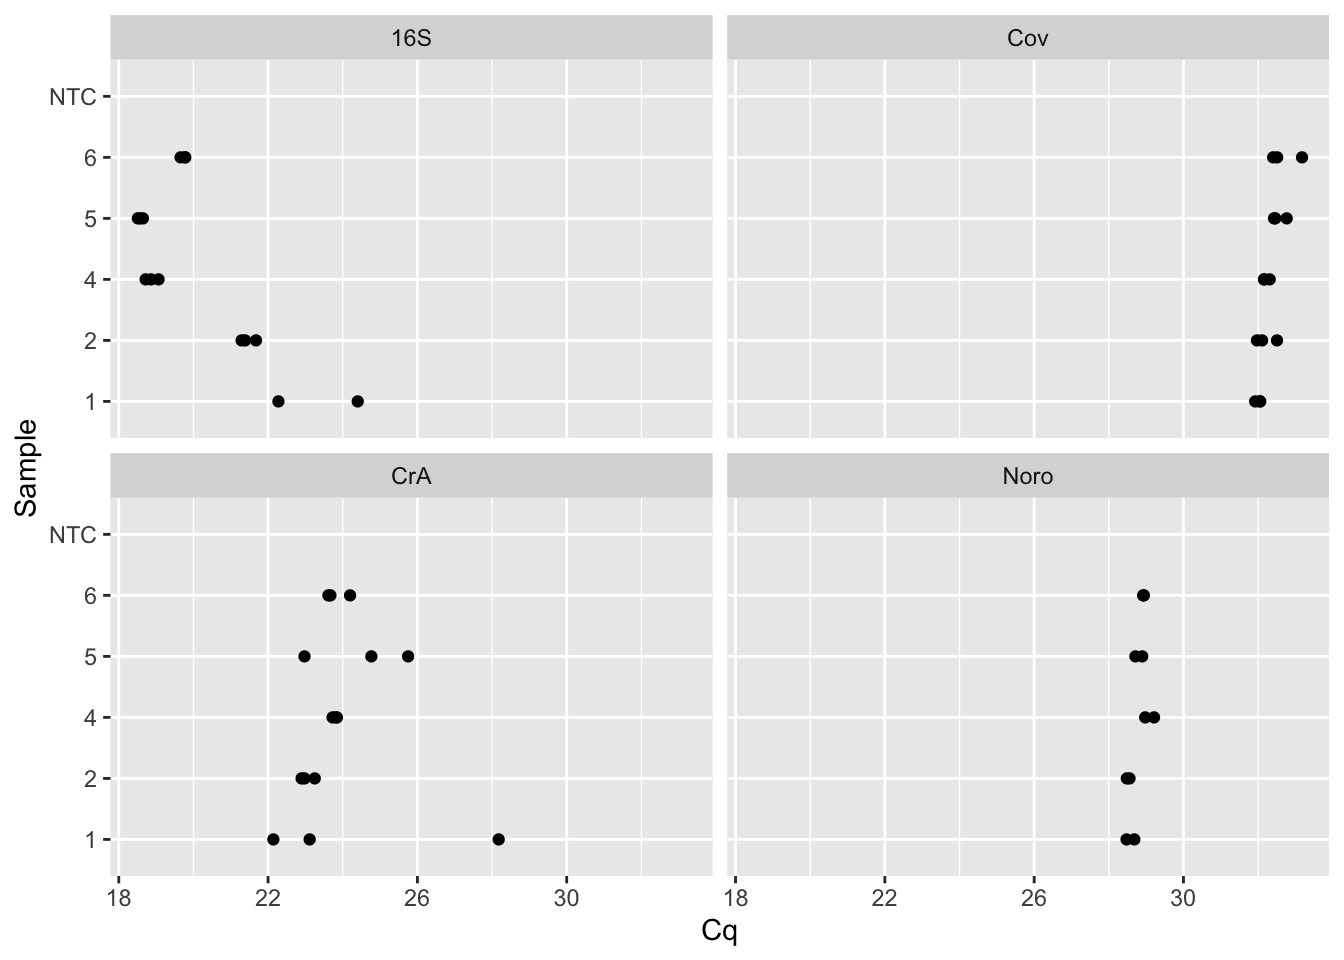
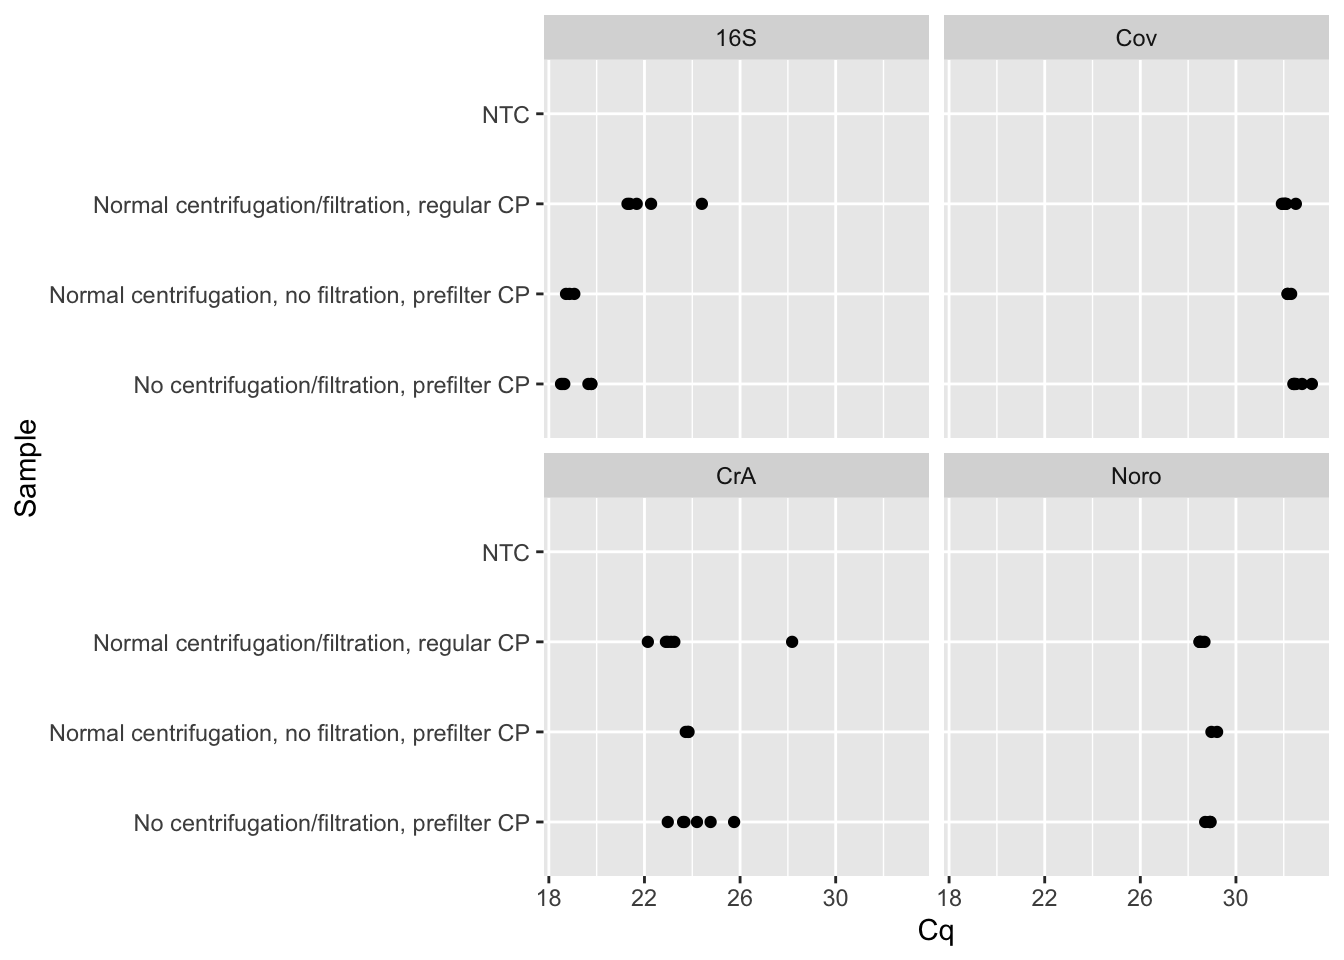
Label the qPCR samples in the plot

diff --git a/docs/2023-08-29-qpcr_analysis.html b/docs/2023-08-29-qpcr_analysis.html
@@ -174,7 +174,7 @@ Attaching package: 'dplyr'</code></pre>
 <span id="cb5-4"><a href="#cb5-4" aria-hidden="true" tabindex="-1"></a>filename_pattern <span class="ot">&lt;-</span> <span class="st">"Results"</span></span></code><button title="Copy to Clipboard" class="code-copy-button"><i class="bi"></i></button></pre></div>
 </div>
 <div class="cell">
-<div class="sourceCode cell-code" id="cb6"><pre class="sourceCode r code-with-copy"><code class="sourceCode r"><span id="cb6-1"><a href="#cb6-1" aria-hidden="true" tabindex="-1"></a>data_raw <span class="ot">&lt;-</span> <span class="fu">list.files</span>(</span>
+<div class="sourceCode cell-code" id="cb6"><pre class="sourceCode r code-with-copy"><code class="sourceCode r"><span id="cb6-1"><a href="#cb6-1" aria-hidden="true" tabindex="-1"></a>raw_data <span class="ot">&lt;-</span> <span class="fu">list.files</span>(</span>
 <span id="cb6-2"><a href="#cb6-2" aria-hidden="true" tabindex="-1"></a>                       data_dir,</span>
 <span id="cb6-3"><a href="#cb6-3" aria-hidden="true" tabindex="-1"></a>                       <span class="at">pattern =</span> filename_pattern,</span>
 <span id="cb6-4"><a href="#cb6-4" aria-hidden="true" tabindex="-1"></a>                       <span class="at">full.names =</span> <span class="cn">TRUE</span></span>
@@ -201,7 +201,7 @@ lgl (5): Omit, Curve Quality, Result Quality Issues, Auto Threshold, Auto Ba...
 ℹ Use `spec()` to retrieve the full column specification for this data.
 ℹ Specify the column types or set `show_col_types = FALSE` to quiet this message.</code></pre>
 </div>
-<div class="sourceCode cell-code" id="cb8"><pre class="sourceCode r code-with-copy"><code class="sourceCode r"><span id="cb8-1"><a href="#cb8-1" aria-hidden="true" tabindex="-1"></a><span class="fu">print</span>(data_raw)</span></code><button title="Copy to Clipboard" class="code-copy-button"><i class="bi"></i></button></pre></div>
+<div class="sourceCode cell-code" id="cb8"><pre class="sourceCode r code-with-copy"><code class="sourceCode r"><span id="cb8-1"><a href="#cb8-1" aria-hidden="true" tabindex="-1"></a><span class="fu">print</span>(raw_data)</span></code><button title="Copy to Clipboard" class="code-copy-button"><i class="bi"></i></button></pre></div>
 <div class="cell-output cell-output-stdout">
 <pre><code># A tibble: 65 × 21
     Well `Well Position` Omit  Sample Target Task    Reporter Quencher
@@ -225,31 +225,32 @@ lgl (5): Omit, Curve Quality, Result Quality Issues, Auto Threshold, Auto Ba...
 </div>
 </div>
 <div class="cell">
-<div class="sourceCode cell-code" id="cb10"><pre class="sourceCode r code-with-copy"><code class="sourceCode r"><span id="cb10-1"><a href="#cb10-1" aria-hidden="true" tabindex="-1"></a>tidy_data <span class="ot">&lt;-</span> data_raw <span class="sc">|&gt;</span></span>
-<span id="cb10-2"><a href="#cb10-2" aria-hidden="true" tabindex="-1"></a>  <span class="fu">mutate</span>(<span class="at">Cq =</span> <span class="fu">as.double</span>(Cq))</span></code><button title="Copy to Clipboard" class="code-copy-button"><i class="bi"></i></button></pre></div>
+<div class="sourceCode cell-code" id="cb10"><pre class="sourceCode r code-with-copy"><code class="sourceCode r"><span id="cb10-1"><a href="#cb10-1" aria-hidden="true" tabindex="-1"></a>coding <span class="ot">=</span> <span class="fu">list</span>(</span>
+<span id="cb10-2"><a href="#cb10-2" aria-hidden="true" tabindex="-1"></a>  <span class="st">"1"</span> <span class="ot">=</span> <span class="st">"Normal centrifugation/filtration, regular CP"</span>,</span>
+<span id="cb10-3"><a href="#cb10-3" aria-hidden="true" tabindex="-1"></a>  <span class="st">"2"</span> <span class="ot">=</span> <span class="st">"Normal centrifugation/filtration, regular CP"</span>,</span>
+<span id="cb10-4"><a href="#cb10-4" aria-hidden="true" tabindex="-1"></a>  <span class="st">"3"</span> <span class="ot">=</span> <span class="st">"Normal centrifugation, no filtration, prefilter CP"</span>,</span>
+<span id="cb10-5"><a href="#cb10-5" aria-hidden="true" tabindex="-1"></a>  <span class="st">"4"</span> <span class="ot">=</span> <span class="st">"Normal centrifugation, no filtration, prefilter CP"</span>,</span>
+<span id="cb10-6"><a href="#cb10-6" aria-hidden="true" tabindex="-1"></a>  <span class="st">"5"</span> <span class="ot">=</span> <span class="st">"No centrifugation/filtration, prefilter CP"</span>,</span>
+<span id="cb10-7"><a href="#cb10-7" aria-hidden="true" tabindex="-1"></a>  <span class="st">"6"</span> <span class="ot">=</span> <span class="st">"No centrifugation/filtration, prefilter CP"</span></span>
+<span id="cb10-8"><a href="#cb10-8" aria-hidden="true" tabindex="-1"></a>)</span>
+<span id="cb10-9"><a href="#cb10-9" aria-hidden="true" tabindex="-1"></a>tidy_data <span class="ot">&lt;-</span> raw_data <span class="sc">|&gt;</span></span>
+<span id="cb10-10"><a href="#cb10-10" aria-hidden="true" tabindex="-1"></a>  <span class="fu">mutate</span>(</span>
+<span id="cb10-11"><a href="#cb10-11" aria-hidden="true" tabindex="-1"></a>    <span class="at">Cq =</span> <span class="fu">as.double</span>(Cq),</span>
+<span id="cb10-12"><a href="#cb10-12" aria-hidden="true" tabindex="-1"></a>    <span class="at">Sample =</span> <span class="fu">recode</span>(Sample, <span class="sc">!!!</span>coding)</span>
+<span id="cb10-13"><a href="#cb10-13" aria-hidden="true" tabindex="-1"></a>  )</span></code><button title="Copy to Clipboard" class="code-copy-button"><i class="bi"></i></button></pre></div>
 <div class="cell-output cell-output-stderr">
 <pre><code>Warning: There was 1 warning in `mutate()`.
 ℹ In argument: `Cq = as.double(Cq)`.
 Caused by warning:
 ! NAs introduced by coercion</code></pre>
 </div>
-<div class="sourceCode cell-code" id="cb12"><pre class="sourceCode r code-with-copy"><code class="sourceCode r"><span id="cb12-1"><a href="#cb12-1" aria-hidden="true" tabindex="-1"></a><span class="fu">print</span>(tidy_data<span class="sc">$</span>Target)</span></code><button title="Copy to Clipboard" class="code-copy-button"><i class="bi"></i></button></pre></div>
-<div class="cell-output cell-output-stdout">
-<pre><code> [1] "CrA"  "CrA"  "CrA"  "16S"  "16S"  "16S"  "CrA"  "CrA"  "CrA"  "16S" 
-[11] "16S"  "16S"  "CrA"  "CrA"  "CrA"  "16S"  "16S"  "16S"  "CrA"  "CrA" 
-[21] "CrA"  "16S"  "16S"  "16S"  "CrA"  "CrA"  "CrA"  "16S"  "16S"  "16S" 
-[31] "CrA"  "CrA"  "CrA"  "16S"  "16S"  "16S"  "Cov"  "Cov"  "Cov"  "Noro"
-[41] "Noro" "Cov"  "Cov"  "Cov"  "Noro" "Noro" "Cov"  "Cov"  "Cov"  "Noro"
-[51] "Noro" "Cov"  "Cov"  "Cov"  "Noro" "Noro" "Cov"  "Cov"  "Cov"  "Noro"
-[61] "Noro" "Cov"  "Cov"  "Noro" "Noro"</code></pre>
-</div>
 </div>
 <div class="cell">
-<div class="sourceCode cell-code" id="cb14"><pre class="sourceCode r code-with-copy"><code class="sourceCode r"><span id="cb14-1"><a href="#cb14-1" aria-hidden="true" tabindex="-1"></a><span class="fu">library</span>(ggplot2)</span>
-<span id="cb14-2"><a href="#cb14-2" aria-hidden="true" tabindex="-1"></a>tidy_data <span class="sc">|&gt;</span></span>
-<span id="cb14-3"><a href="#cb14-3" aria-hidden="true" tabindex="-1"></a>  <span class="fu">ggplot</span>(<span class="at">mapping =</span> <span class="fu">aes</span>(<span class="at">x=</span>Cq, <span class="at">y=</span>Sample)) <span class="sc">+</span></span>
-<span id="cb14-4"><a href="#cb14-4" aria-hidden="true" tabindex="-1"></a>  <span class="fu">geom_point</span>() <span class="sc">+</span></span>
-<span id="cb14-5"><a href="#cb14-5" aria-hidden="true" tabindex="-1"></a>  <span class="fu">facet_wrap</span>(<span class="at">facets =</span> <span class="sc">~</span>Target)</span></code><button title="Copy to Clipboard" class="code-copy-button"><i class="bi"></i></button></pre></div>
+<div class="sourceCode cell-code" id="cb12"><pre class="sourceCode r code-with-copy"><code class="sourceCode r"><span id="cb12-1"><a href="#cb12-1" aria-hidden="true" tabindex="-1"></a><span class="fu">library</span>(ggplot2)</span>
+<span id="cb12-2"><a href="#cb12-2" aria-hidden="true" tabindex="-1"></a>tidy_data <span class="sc">|&gt;</span></span>
+<span id="cb12-3"><a href="#cb12-3" aria-hidden="true" tabindex="-1"></a>  <span class="fu">ggplot</span>(<span class="at">mapping =</span> <span class="fu">aes</span>(<span class="at">x=</span>Cq, <span class="at">y=</span>Sample)) <span class="sc">+</span></span>
+<span id="cb12-4"><a href="#cb12-4" aria-hidden="true" tabindex="-1"></a>  <span class="fu">geom_point</span>() <span class="sc">+</span></span>
+<span id="cb12-5"><a href="#cb12-5" aria-hidden="true" tabindex="-1"></a>  <span class="fu">facet_wrap</span>(<span class="at">facets =</span> <span class="sc">~</span>Target)</span></code><button title="Copy to Clipboard" class="code-copy-button"><i class="bi"></i></button></pre></div>
 <div class="cell-output cell-output-stderr">
 <pre><code>Warning: Removed 11 rows containing missing values (`geom_point()`).</code></pre>
 </div>
@@ -261,7 +262,7 @@ Caused by warning:
 <section id="todo" class="level2">
 <h2 class="anchored" data-anchor-id="todo">TODO</h2>
 <ul>
-<li>Figure out what the <code>Sample</code> numbers mean with respect to the different treatments</li>
+<li><del>Figure out what the <code>Sample</code> numbers mean with respect to the different treatments</del></li>
 <li>There are a few NaNs that show up as missing points and aren’t evident in the plot. Will investigate later.</li>
 </ul>
 
